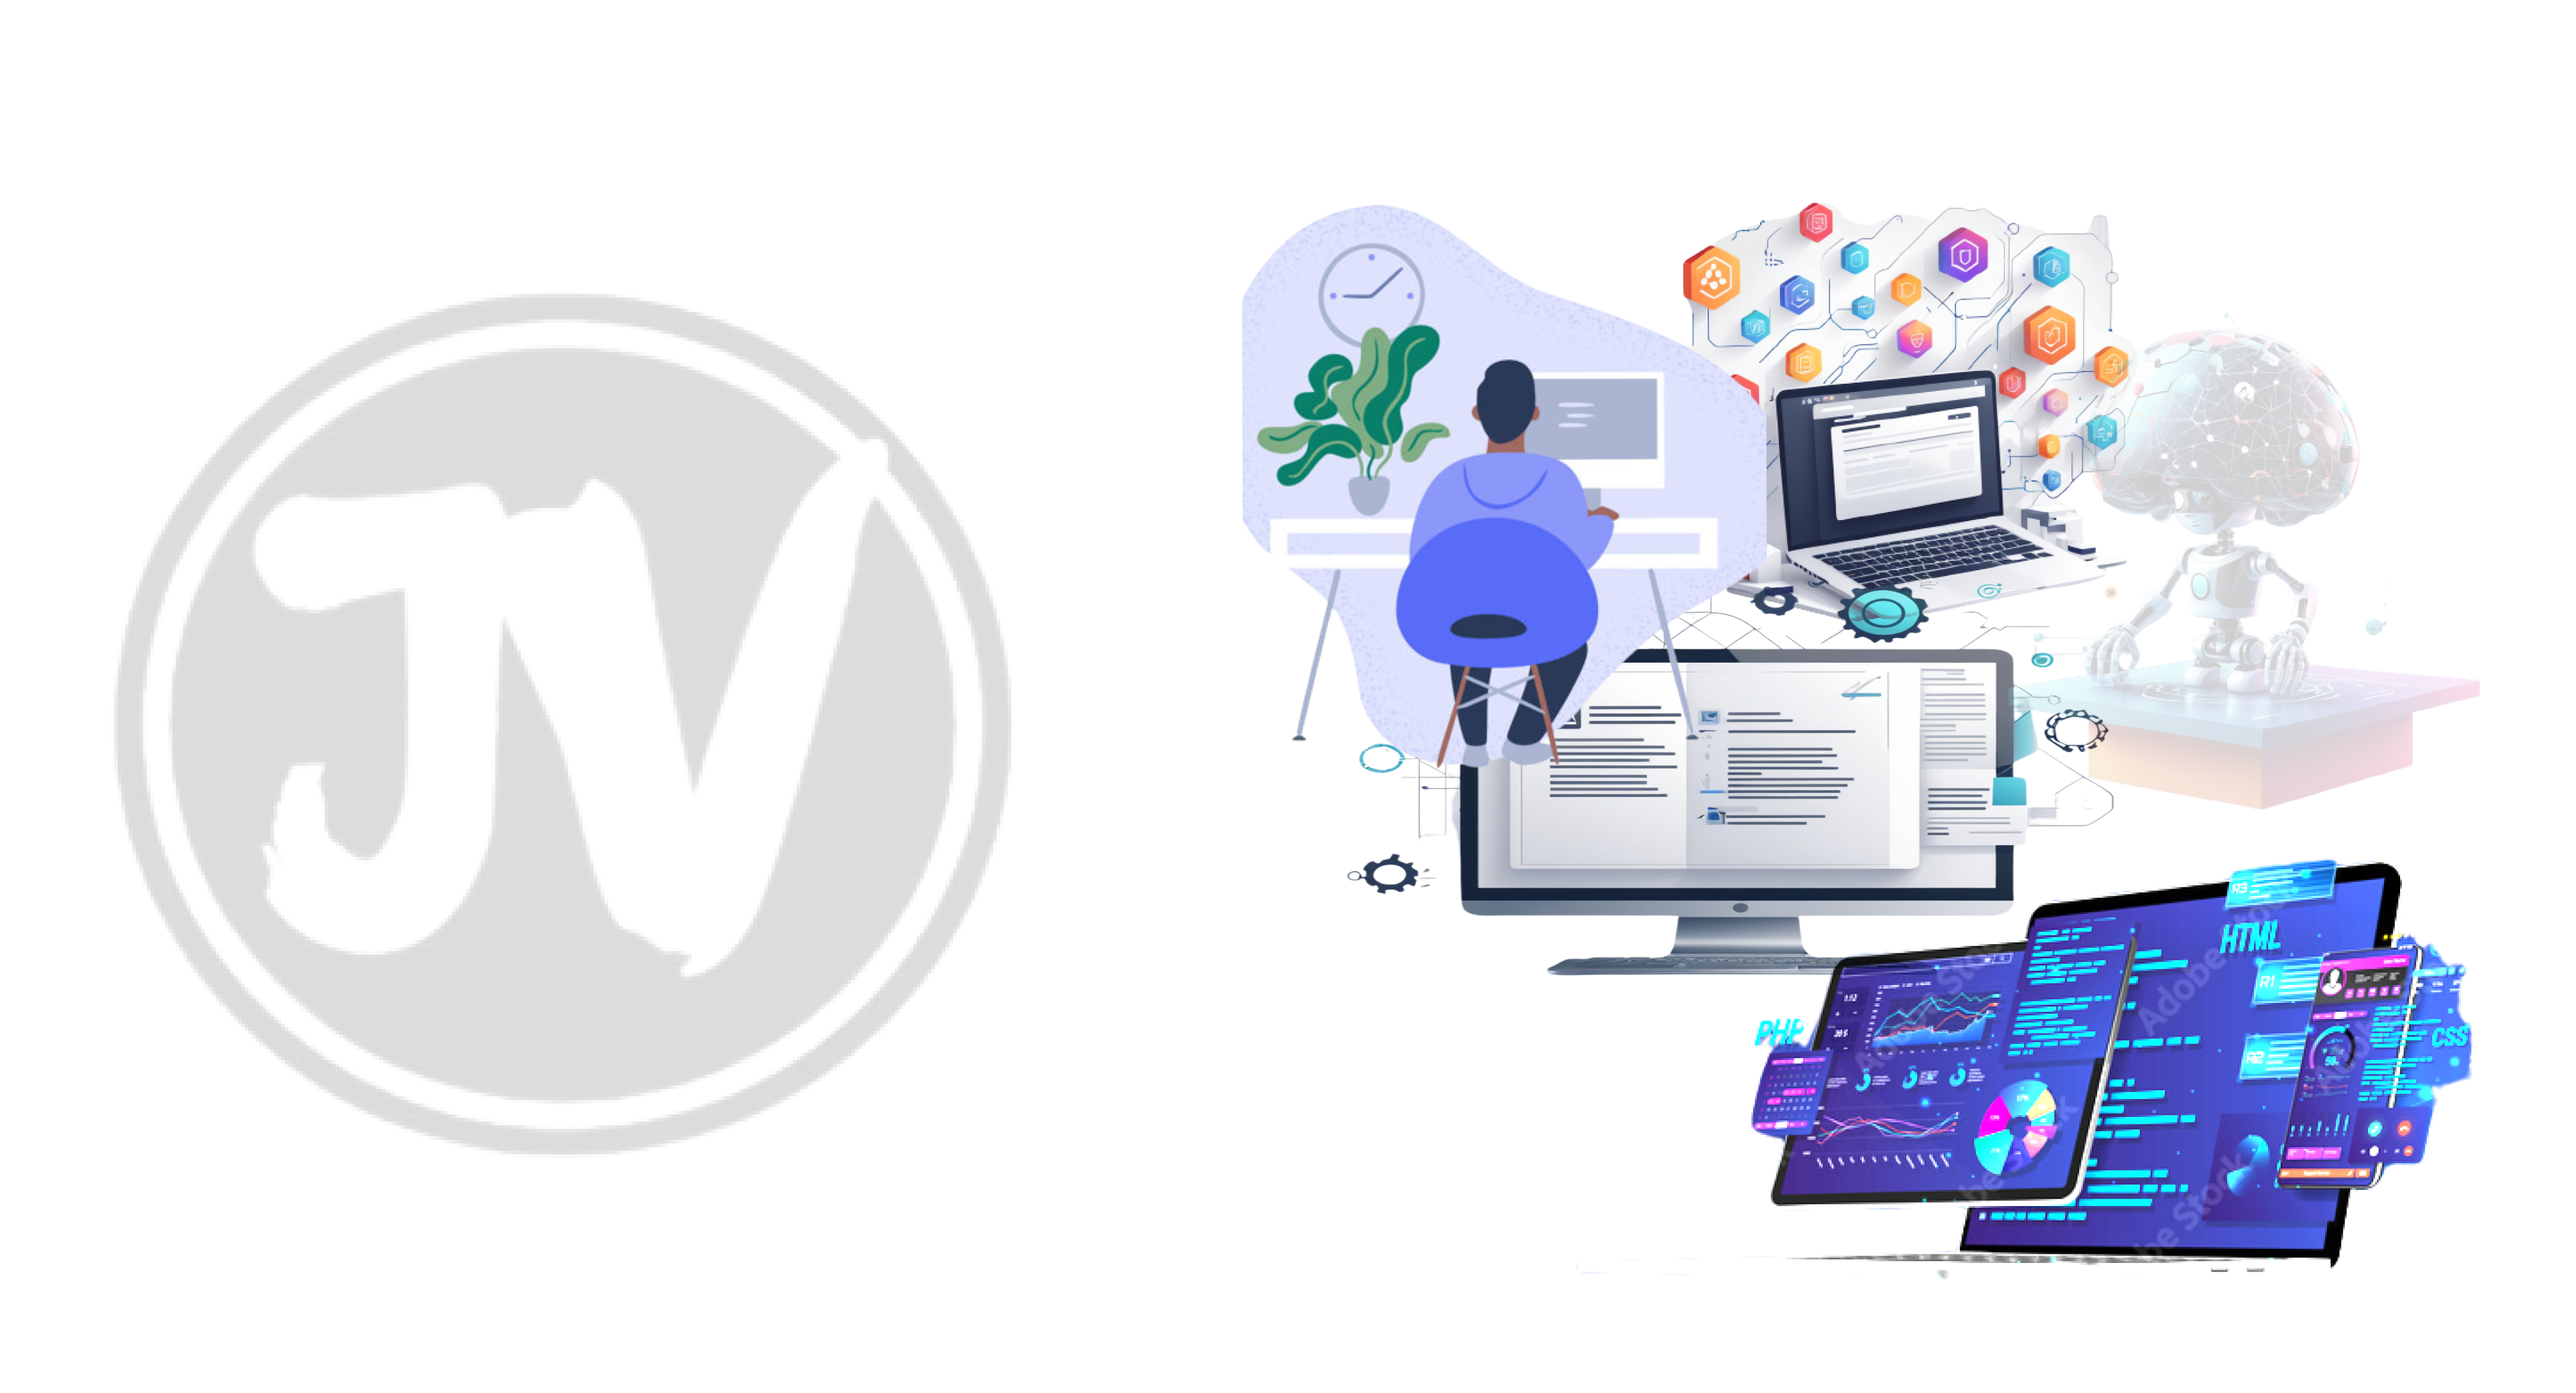
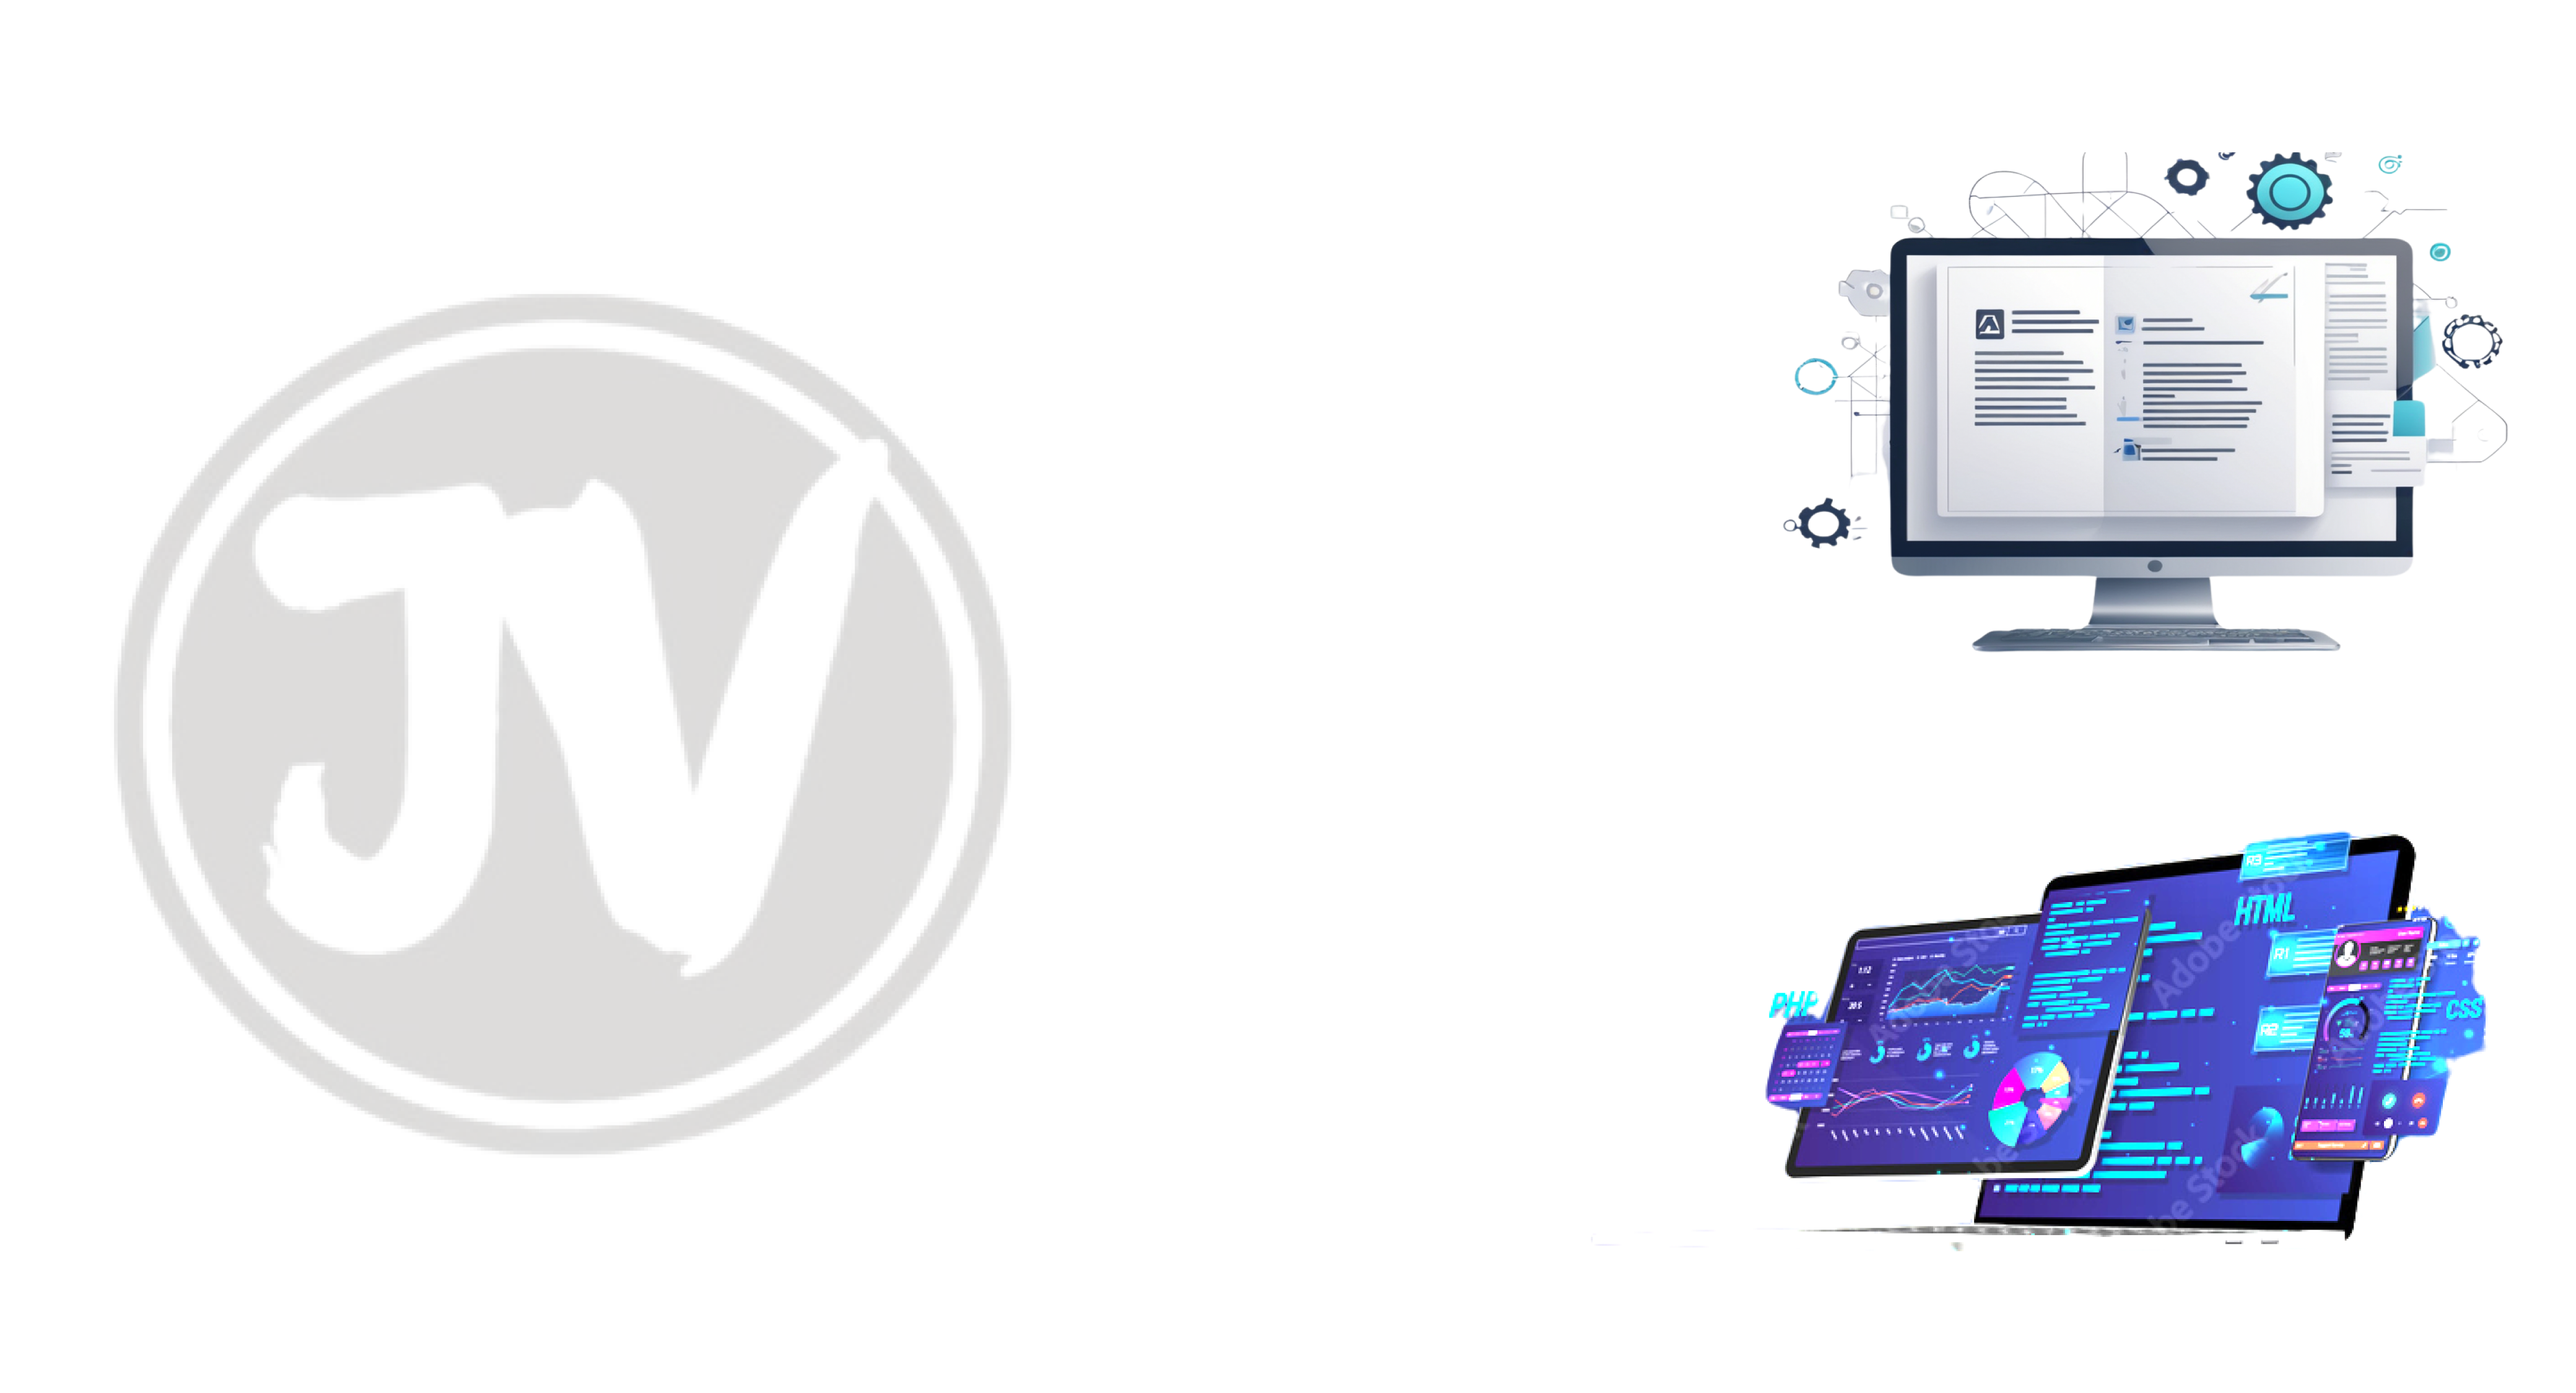
background and team partner added

Changed region(s): [[0.4653, 0.0933, 0.9925, 0.9333]]

diff --git a/index.html b/index.html
@@ -169,7 +169,13 @@
           <div class="col-xl-5 content">
             <h3>About Us</h3>
             <h2>Ducimus rerum libero reprehenderit cumque</h2>
-            <p>Ipsa sint sit. Quis ducimus tempore dolores impedit et dolor cumque alias maxime. Enim reiciendis minus et rerum hic non. Dicta quas cum quia maiores iure. Quidem nulla qui assumenda incidunt voluptatem tempora deleniti soluta.</p>
+            <p>Welcome to <Strong>JvTech</Strong>, your ultimate destination for everything related to software development. Whether you're a seasoned developer or just starting out, our platform is designed to empower you with the knowledge, tools, and resources needed to thrive in the dynamic world of coding and software engineering.
+
+              Explore a comprehensive range of tutorials, from beginner basics to advanced techniques, covering popular programming languages such as Python, JavaScript, Java, C++, and more. Stay updated with the latest industry trends, best practices, and emerging technologies through our insightful articles and expertly curated content.
+              
+              Connect with a vibrant community of like-minded developers through forums, where you can ask questions, share insights, and collaborate on projects. Our goal is to foster a supportive environment where learning is encouraged and innovation thrives.
+              
+              Whether you're looking to enhance your skills, solve a coding challenge, or embark on a new project, [Website Name] is your go-to resource for all things software development. Join us on this journey of continuous learning and growth in the exciting world of technology.</p>
             <a href="#" class="read-more"><span>Read More</span><i class="bi bi-arrow-right"></i></a>
           </div>
 
@@ -674,14 +680,15 @@
             </div>
             <div class="member-info text-center">
               <h4>Jay Vachhani</h4>
-              <span>Chief Executive Officer</span>
+              <span>Software Developer</span>
+              <!-- <span>Chief Executive Officer</span> -->
               <p>Aliquam iure quaerat voluptatem praesentium possimus unde laudantium vel dolorum distinctio dire flow</p>
             </div>
           </div><!-- End Team Member -->
 
           <div class="col-lg-4 col-md-6 member" data-aos="fade-up" data-aos-delay="200">
             <div class="member-img">
-              <img src="assets/img/team/team-2.jpg" class="img-fluid" alt="">
+              <img src="assets/img/team/cyber_security.jpg" class="img-fluid" alt="">
               <div class="social">
                 <a href="#"><i class="bi bi-twitter"></i></a>
                 <a href="#"><i class="bi bi-facebook"></i></a>
@@ -690,8 +697,8 @@
               </div>
             </div>
             <div class="member-info text-center">
-              <h4>Sarah Jhonson</h4>
-              <span>Product Manager</span>
+              <h4>Poojan Vegada</h4>
+              <span>Cyber Security Expert</span>
               <p>Labore ipsam sit consequatur exercitationem rerum laboriosam laudantium aut quod dolores exercitationem ut</p>
             </div>
           </div><!-- End Team Member -->
@@ -707,8 +714,9 @@
               </div>
             </div>
             <div class="member-info text-center">
-              <h4>William Anderson</h4>
-              <span>CTO</span>
+              <h4>Manish</h4>
+              <span>Digital Marketing , Seo Expert</span>
+              <!-- <span>CTO</span> -->
               <p>Illum minima ea autem doloremque ipsum quidem quas aspernatur modi ut praesentium vel tque sed facilis at qui</p>
             </div>
           </div><!-- End Team Member -->
@@ -724,8 +732,8 @@
               </div>
             </div>
             <div class="member-info text-center">
-              <h4>Amanda Jepson</h4>
-              <span>Accountant</span>
+              <h4>Krushal Makadiya</h4>
+              <span>Ui Ux Expert</span>
               <p>Magni voluptatem accusamus assumenda cum nisi aut qui dolorem voluptate sed et veniam quasi quam consectetur</p>
             </div>
           </div><!-- End Team Member -->
